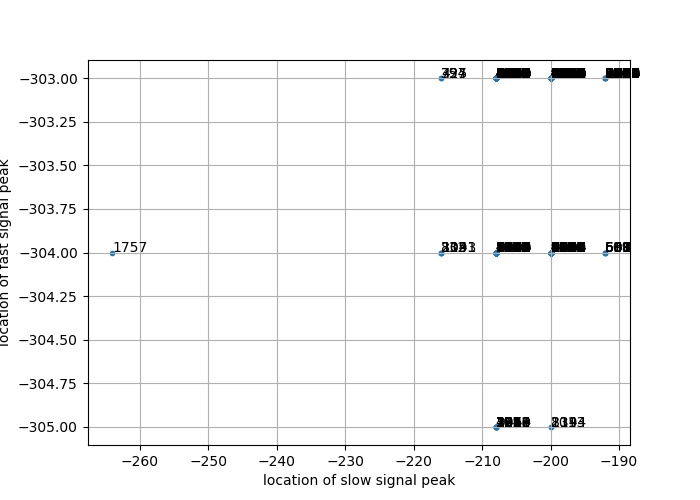
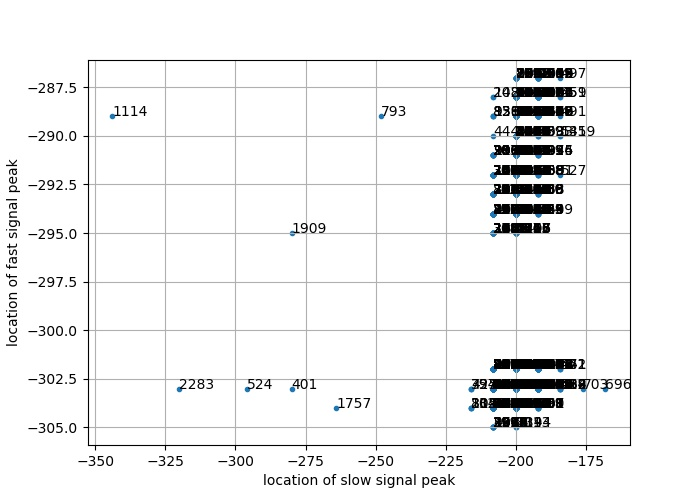
analysis updates

diff --git a/software/correlator.py b/software/correlator.py
@@ -109,11 +109,12 @@ for i in monosgnl:
 	slowpeaks	= np.where(slowdata[i]>0.05)
 	slowint[j]	= np.sum(slowdata[i][slowpeaks])*(Stramptime[1]-Stramptime[0])
 	slowmax[j]	= np.amax(slowdata[i])
-	slowloc[j]	= Stramptime[np.argmax(slowdata[i])+minindex]
+	slowloc[j]	= Stramptime[minindex:maxindex][np.argmax(slowdata[i])]
 
 	j += 1
 
 newpeaks	= np.where(fastmax > minpeakval + noisethres)
+newmonosgnl	= monosgnl[newpeaks]
 newfastint 	= fastint[newpeaks]
 newslowint	= slowint[newpeaks]
 newfastmax	= fastmax[newpeaks]
@@ -121,6 +122,7 @@ newslowmax	= slowmax[newpeaks]
 newfastloc	= fastloc[newpeaks]
 newslowloc	= slowloc[newpeaks]
 
+print('There are', np.shape(newpeaks)[1], 'filtered events')
 
 plt.figure(figsize=(7,5))
 plt.scatter(slowint, fastint, marker='.')
@@ -192,7 +194,7 @@ plt.savefig('newpeaks_correlation.jpg')
 plt.close()
 
 plt.figure(figsize=(7,5))
-plt.scatter(newslowloc, newfastloc, marker='.')
+plt.scatter(slowloc, fastloc, marker='.')
 ax = plt.gca()
 ax.set_xlabel('location of slow signal peak')
 ax.set_ylabel('location of fast signal peak')
@@ -215,8 +217,8 @@ ax.set_xlabel('location of slow signal peak')
 ax.set_ylabel('location of fast signal peak')
 
 j = 0
-for i in monosgnl:
-	ax.annotate(Original[i][0], (slowloc[j], fastloc[j]))
+for i in newmonosgnl:
+	ax.annotate(Original[i][0], (newslowloc[j], newfastloc[j]))
 	j += 1
 
 plt.grid()

diff --git a/software/plotter.py b/software/plotter.py
@@ -7,7 +7,7 @@ filenames = sys.argv
 
 timestamp = filenames[1][13:-4]
 
-print filenames
+#print(filenames)
 
 data = []
 
@@ -25,12 +25,12 @@ Stramptime	= np.array(data[4])[0].astype(float)
 
 for i in range(np.shape(Original)[0]):
 	eventno 	= Original[i][0]
-	Origvals 	= (Original[i][2:].astype(float) - 83.0)/1000.0
+	Origvals 	= (Original[i][2:].astype(float) - 82.0)/1000.0
 	Strampvals 	= (Stramp[i][2:].astype(float) + 3)/10.0
 	Trigvals	= Trigger[i][2:].astype(float)
 	plt.figure(figsize=(7,5))
-	plt.plot(Origtime, Origvals, 'y.-')
-	plt.plot(Stramptime, Strampvals, 'b.-')
+	plt.plot(Origtime, Origvals, 'b.-')
+	plt.plot(Stramptime, Strampvals, 'y.-')
 #	plt.plot(Stramptime, Trigvals, 'r')
 	plt.grid()
 #	plt.legend()
